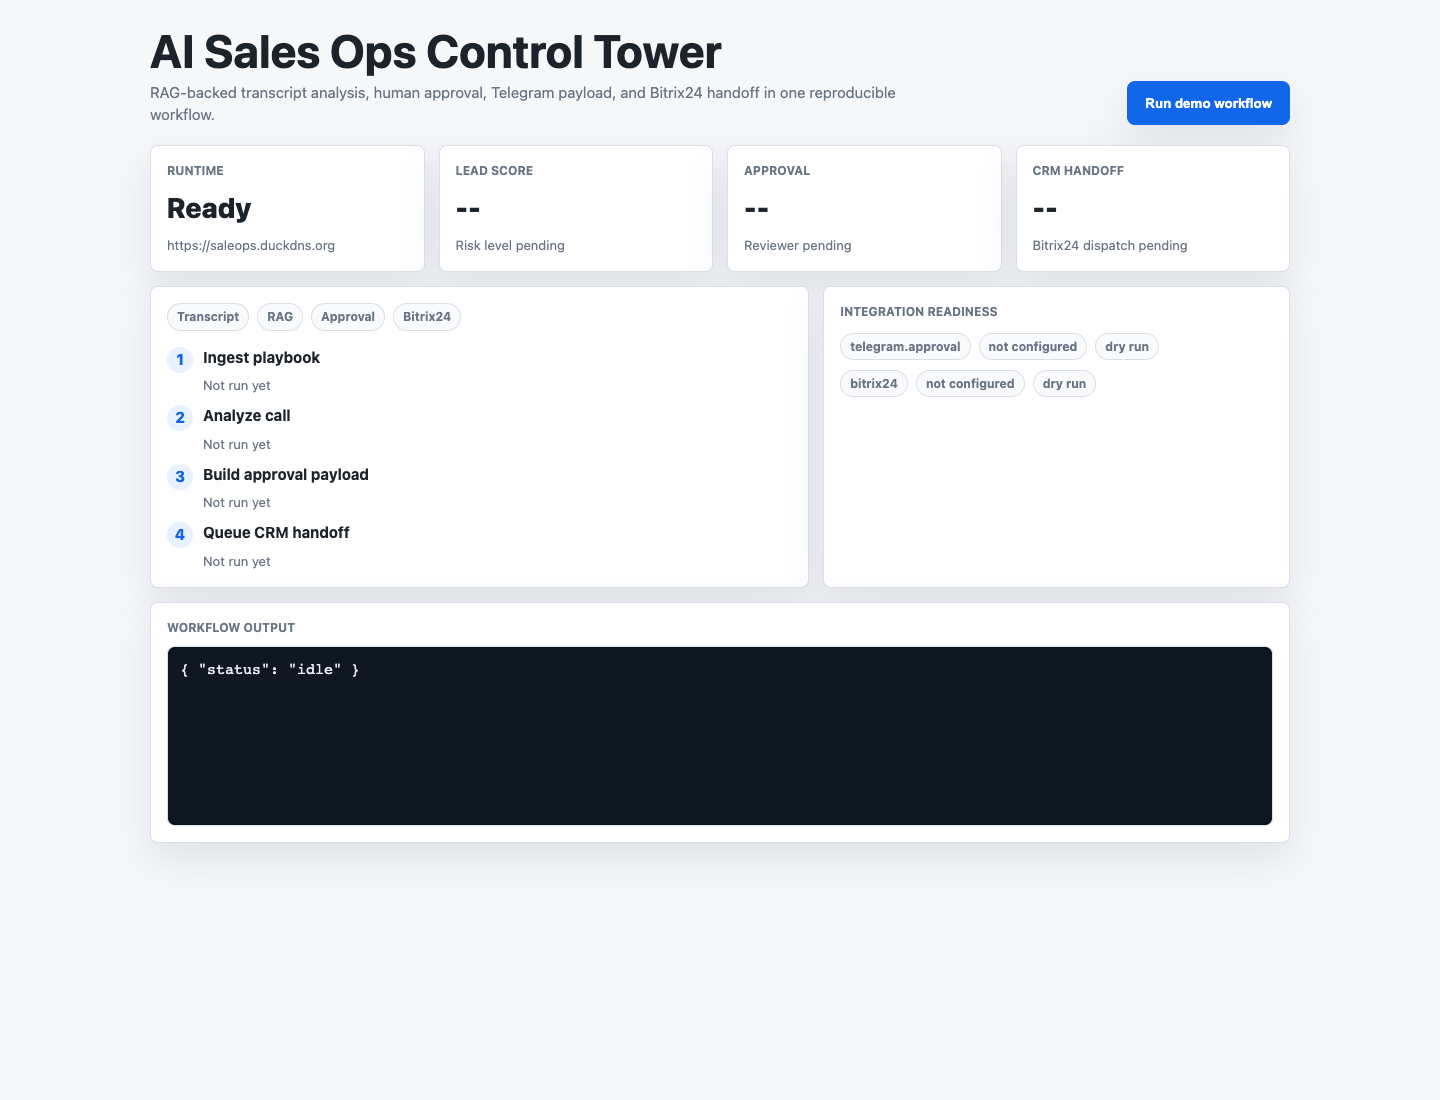
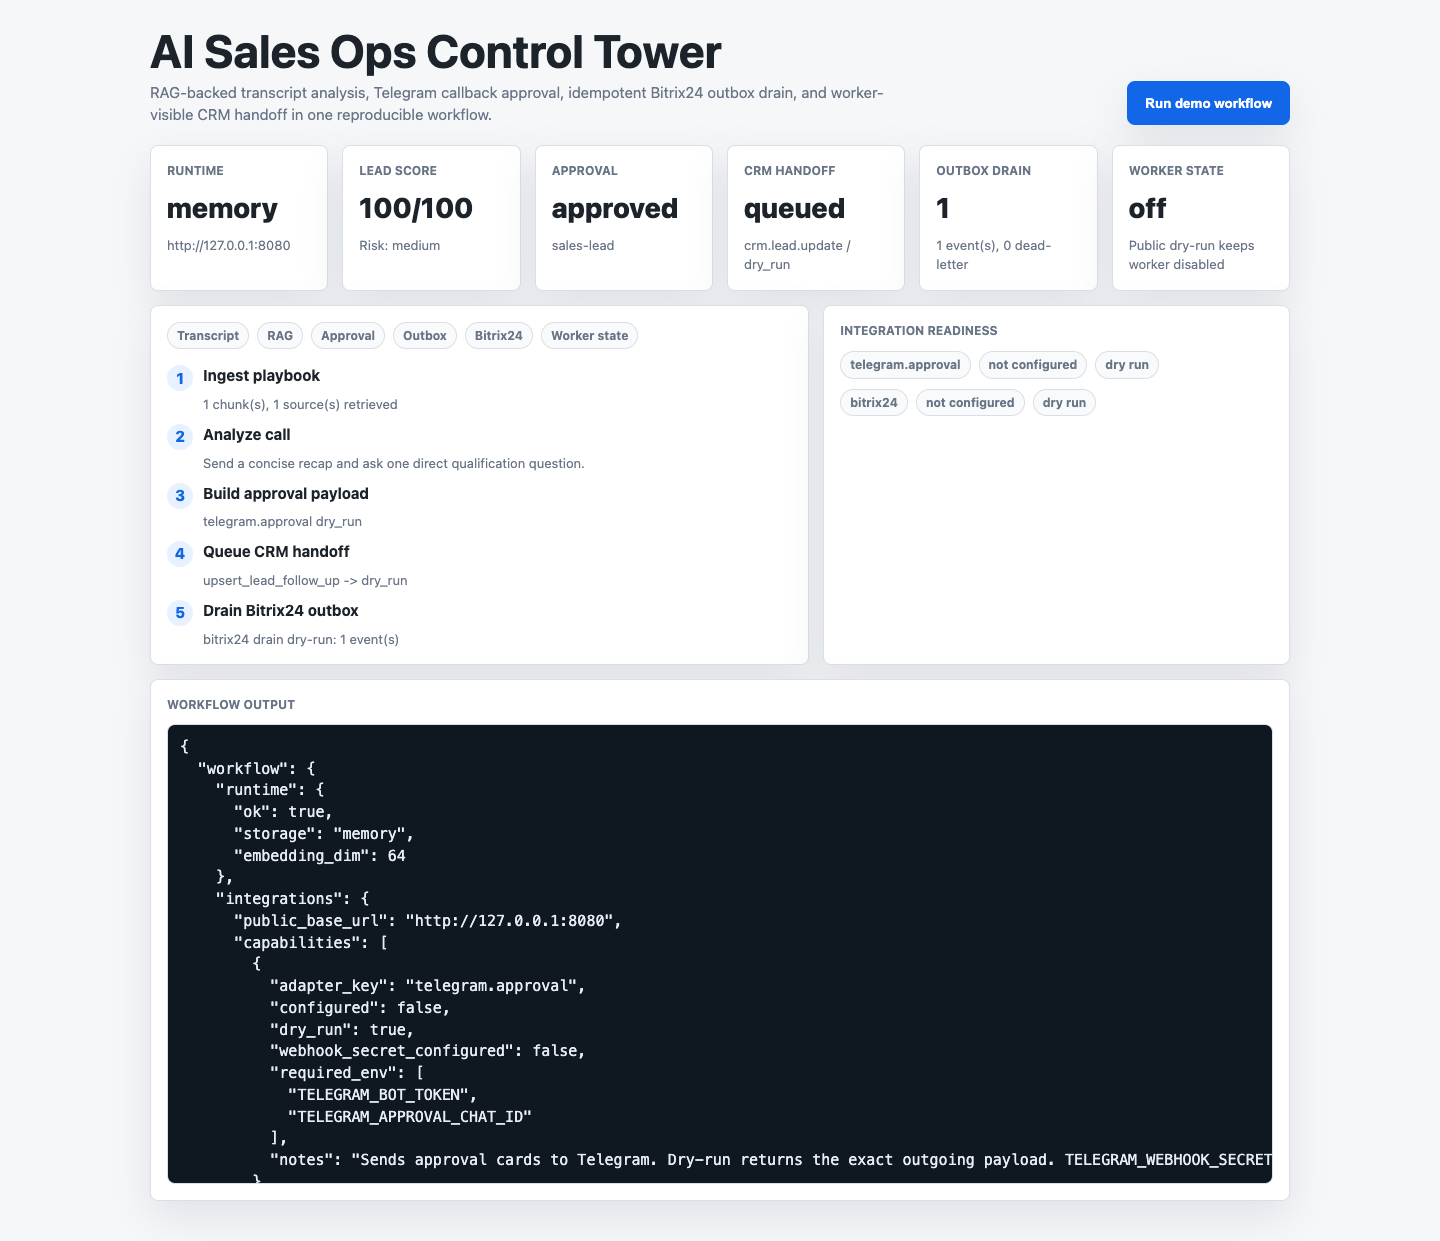
Expose outbox worker proof in live UI

Changed region(s): [[0.0938, 0.5564, 0.9062, 0.9582], [0.0938, 0.0309, 0.9062, 0.5255]]

diff --git a/app/ui.py b/app/ui.py
@@ -58,6 +58,7 @@ DEMO_PAGE_HTML = """
       padding: 16px;
       min-width: 0;
     }
+    .span-2 { grid-column: span 2; }
     .span-3 { grid-column: span 3; }
     .span-4 { grid-column: span 4; }
     .span-5 { grid-column: span 5; }
@@ -108,7 +109,7 @@ DEMO_PAGE_HTML = """
     }
     @media (max-width: 840px) {
       header { grid-template-columns: 1fr; align-items: start; }
-      .span-3, .span-4, .span-5, .span-7 { grid-column: span 12; }
+      .span-2, .span-3, .span-4, .span-5, .span-7 { grid-column: span 12; }
     }
   </style>
 </head>
@@ -117,31 +118,41 @@ DEMO_PAGE_HTML = """
     <header>
       <div>
         <h1>AI Sales Ops Control Tower</h1>
-        <p class="subtitle">RAG-backed transcript analysis, human approval, Telegram payload, and Bitrix24 handoff in one reproducible workflow.</p>
+        <p class="subtitle">RAG-backed transcript analysis, Telegram callback approval, idempotent Bitrix24 outbox drain, and worker-visible CRM handoff in one reproducible workflow.</p>
       </div>
       <button id="run">Run demo workflow</button>
     </header>
 
     <section class="grid">
-      <div class="panel span-3">
+      <div class="panel span-2">
         <div class="label">Runtime</div>
         <div id="runtime" class="value">Ready</div>
         <div id="runtime-sub" class="small">Waiting for demo run</div>
       </div>
-      <div class="panel span-3">
+      <div class="panel span-2">
         <div class="label">Lead score</div>
         <div id="score" class="value">--</div>
         <div id="risk" class="small">Risk level pending</div>
       </div>
-      <div class="panel span-3">
+      <div class="panel span-2">
         <div class="label">Approval</div>
         <div id="approval" class="value">--</div>
         <div id="reviewer" class="small">Reviewer pending</div>
       </div>
-      <div class="panel span-3">
+      <div class="panel span-2">
         <div class="label">CRM handoff</div>
         <div id="crm" class="value">--</div>
         <div id="crm-sub" class="small">Bitrix24 dispatch pending</div>
+      </div>
+      <div class="panel span-2">
+        <div class="label">Outbox drain</div>
+        <div id="outbox" class="value">--</div>
+        <div id="outbox-sub" class="small">Dry-run drain pending</div>
+      </div>
+      <div class="panel span-2">
+        <div class="label">Worker state</div>
+        <div id="worker" class="value">--</div>
+        <div id="worker-sub" class="small">Runtime not checked</div>
       </div>
 
       <div class="panel span-7">
@@ -149,13 +160,16 @@ DEMO_PAGE_HTML = """
           <span class="pill">Transcript</span>
           <span class="pill">RAG</span>
           <span class="pill">Approval</span>
+          <span class="pill">Outbox</span>
           <span class="pill">Bitrix24</span>
+          <span class="pill">Worker state</span>
         </div>
         <div class="stack" style="margin-top: 16px;">
           <div class="step"><div class="num">1</div><div><b>Ingest playbook</b><div class="small" id="step1">Not run yet</div></div></div>
           <div class="step"><div class="num">2</div><div><b>Analyze call</b><div class="small" id="step2">Not run yet</div></div></div>
           <div class="step"><div class="num">3</div><div><b>Build approval payload</b><div class="small" id="step3">Not run yet</div></div></div>
           <div class="step"><div class="num">4</div><div><b>Queue CRM handoff</b><div class="small" id="step4">Not run yet</div></div></div>
+          <div class="step"><div class="num">5</div><div><b>Drain Bitrix24 outbox</b><div class="small" id="step5">Not run yet</div></div></div>
         </div>
       </div>
       <div class="panel span-5">
@@ -176,6 +190,12 @@ DEMO_PAGE_HTML = """
     const setText = (id, value) => { document.getElementById(id).textContent = value; };
     const pretty = (value) => JSON.stringify(value, null, 2);
 
+    function renderWorkerState(runtime) {
+      const worker = runtime.workers.bitrix24_outbox;
+      setText("worker", worker.active ? "active" : "off");
+      setText("worker-sub", worker.dry_run ? "Public dry-run keeps worker disabled" : `Interval ${worker.interval_seconds}s`);
+    }
+
     function renderIntegrations(runtime) {
       const target = document.getElementById("integrations");
       target.innerHTML = "";
@@ -192,6 +212,9 @@ DEMO_PAGE_HTML = """
     }
 
     async function loadRuntime() {
+      const runtimeResponse = await fetch("/runtime");
+      const runtimeState = await runtimeResponse.json();
+      renderWorkerState(runtimeState);
       const response = await fetch("/integrations/runtime");
       const runtime = await response.json();
       renderIntegrations(runtime);
@@ -206,6 +229,11 @@ DEMO_PAGE_HTML = """
         const response = await fetch("/demo/run", { method: "POST" });
         const data = await response.json();
         if (!response.ok) throw new Error(pretty(data));
+        const drainResponse = await fetch("/integrations/bitrix24/drain?limit=100", { method: "POST" });
+        const drain = await drainResponse.json();
+        if (!drainResponse.ok) throw new Error(pretty(drain));
+        const runtimeResponse = await fetch("/runtime");
+        const runtimeState = await runtimeResponse.json();
 
         setText("runtime", data.runtime.storage);
         setText("runtime-sub", data.integrations.public_base_url);
@@ -219,8 +247,12 @@ DEMO_PAGE_HTML = """
         setText("step2", `${data.call_analysis.next_action}`);
         setText("step3", `${data.telegram_approval.adapter_key} ${data.telegram_approval.status}`);
         setText("step4", `${data.crm_handoff.operation} -> ${data.bitrix24_dispatch.status}`);
+        setText("outbox", `${drain.dry_run}`);
+        setText("outbox-sub", `${drain.dispatched} event(s), ${drain.dead_letter} dead-letter`);
+        setText("step5", `${drain.adapter_key} drain dry-run: ${drain.dry_run} event(s)`);
+        renderWorkerState(runtimeState);
         renderIntegrations(data.integrations);
-        output.textContent = pretty(data);
+        output.textContent = pretty({ workflow: data, bitrix24_outbox_drain: drain, runtime: runtimeState });
       } catch (error) {
         output.textContent = pretty({ status: "failed", detail: String(error.message || error) });
       } finally {

diff --git a/tests/test_api.py b/tests/test_api.py
@@ -37,6 +37,10 @@ def test_public_demo_page_is_available() -> None:
     assert response.status_code == 200
     assert "AI Sales Ops Control Tower" in response.text
     assert "Run demo workflow" in response.text
+    assert "Telegram callback approval" in response.text
+    assert "Outbox drain" in response.text
+    assert "Worker state" in response.text
+    assert "/integrations/bitrix24/drain" in response.text
 
 
 def test_integration_runtime_reports_dry_run_capabilities() -> None:

diff --git a/README.md b/README.md
@@ -20,7 +20,7 @@ prompt demo.
 | --- | --- |
 | [Live demo](https://saleops.duckdns.org/) | Public one-click proof of the deployed Sales Ops workflow. |
 | [Evidence map](docs/EVIDENCE_MAP.md) | Maps the repo to AI automation, RAG, approval flow, Bitrix24, Telegram, and self-hosting requirements. |
-| [Offer demo](docs/OFFER_DEMO.md) | One-command proof of transcript -> RAG -> scoring -> approval -> mock Bitrix CRM handoff. |
+| [Offer demo](docs/OFFER_DEMO.md) | One-command proof of transcript -> RAG -> scoring -> Telegram approval -> idempotent outbox drain -> mock Bitrix CRM handoff. |
 | [Reviewer checklist](docs/REVIEWER_CHECKLIST.md) | Single public gate for tests, offer demo, and output validation. |
 | [Live demo notes](docs/LIVE_DEMO.md) | Public URLs and smoke checks for the deployed service. |
 | [Architecture notes](docs/ARCHITECTURE.md) | Shows the FastAPI/n8n/PostgreSQL boundary and why stateful logic stays in the backend. |
@@ -90,7 +90,7 @@ The script runs a complete synthetic sales workflow without external API keys:
 
 ```text
 sales playbook -> RAG retrieval -> call transcript webhook -> AI scoring
--> follow-up approval -> mock Bitrix24 CRM handoff event
+-> follow-up approval -> Telegram callback -> outbox drain -> mock Bitrix24 CRM handoff event
 ```
 
 See [docs/OFFER_DEMO.md](docs/OFFER_DEMO.md) for the reviewer path and expected output shape.

diff --git a/docs/LIVE_DEMO.md b/docs/LIVE_DEMO.md
@@ -23,7 +23,7 @@ as a narrower alias for the scoring surface.
 1. Open `https://saleops.duckdns.org/`.
 2. Click `Run demo workflow`.
 3. Verify the response shows a high lead score, approved review state, dry-run Telegram payload,
-   and dry-run Bitrix24 dispatch.
+   dry-run Bitrix24 dispatch, outbox drain count, and public worker state.
 
 ## Command-Line Smoke
 